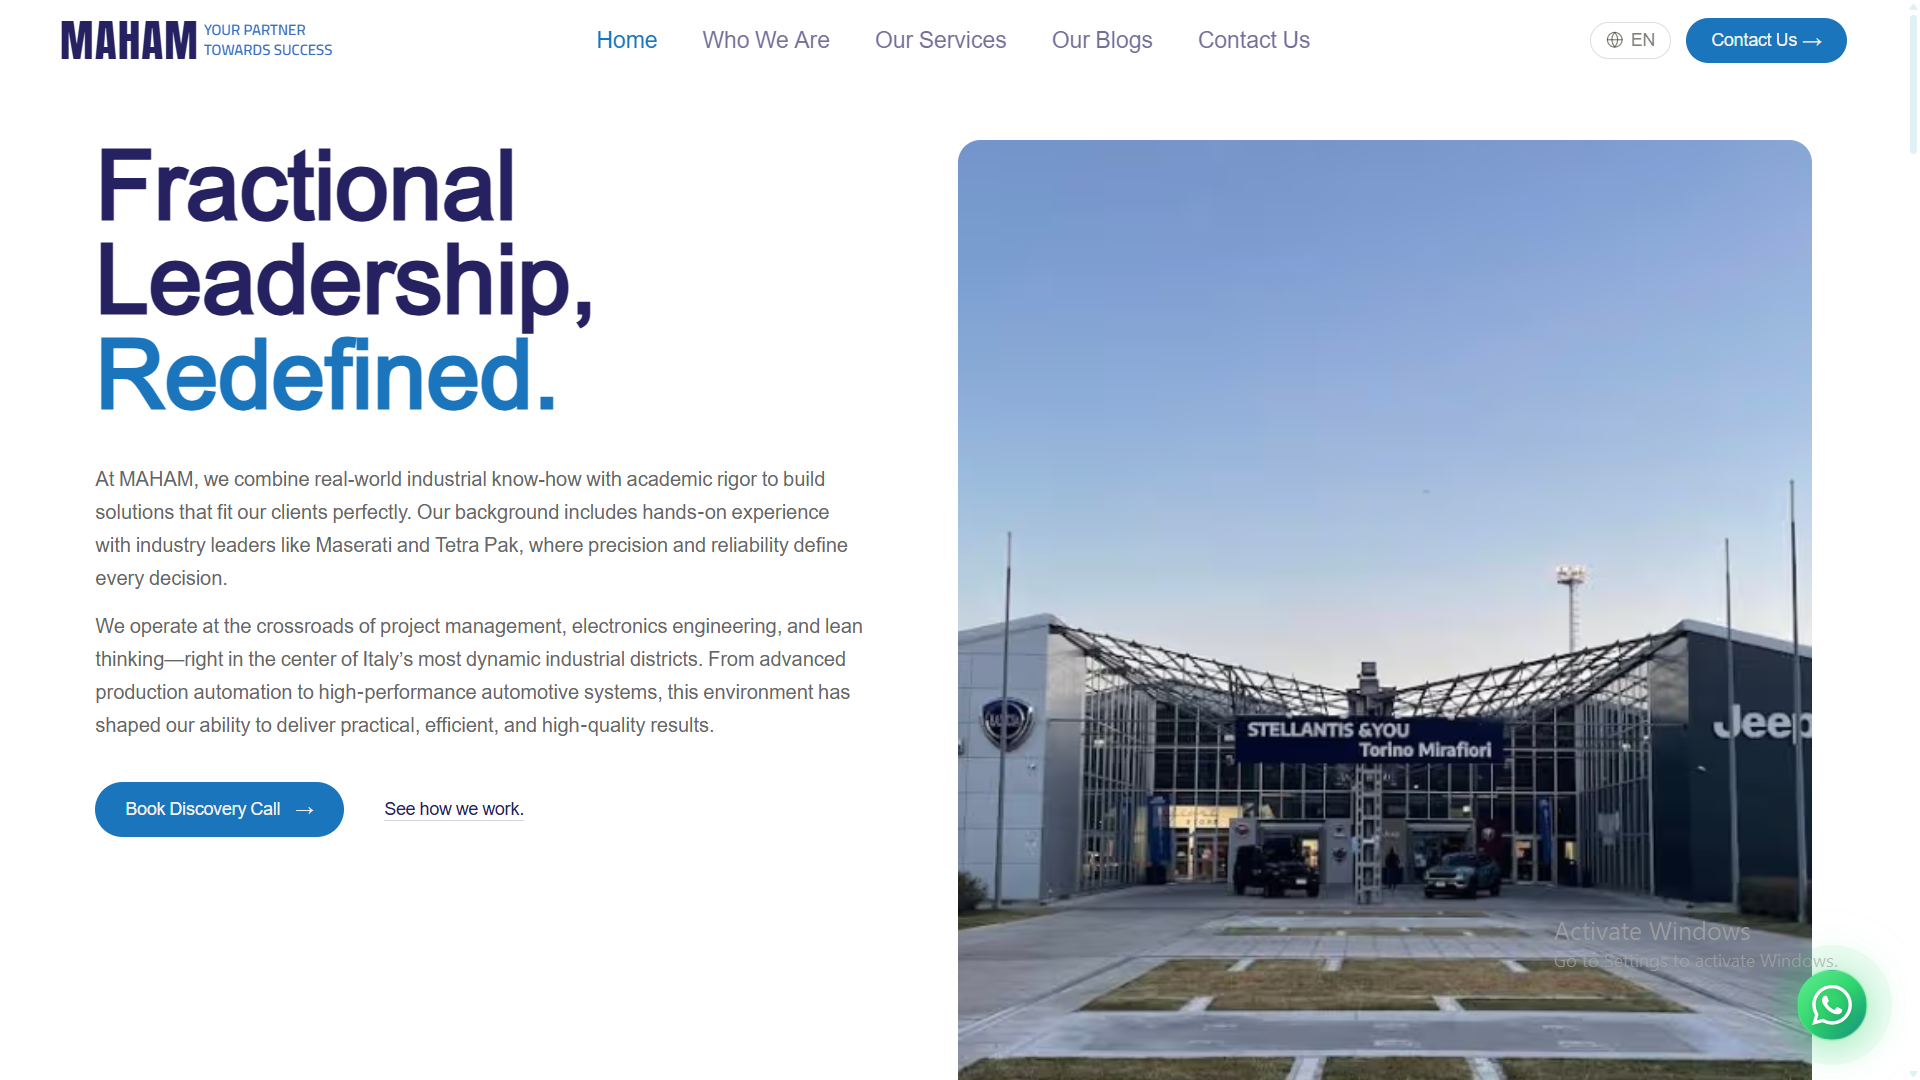
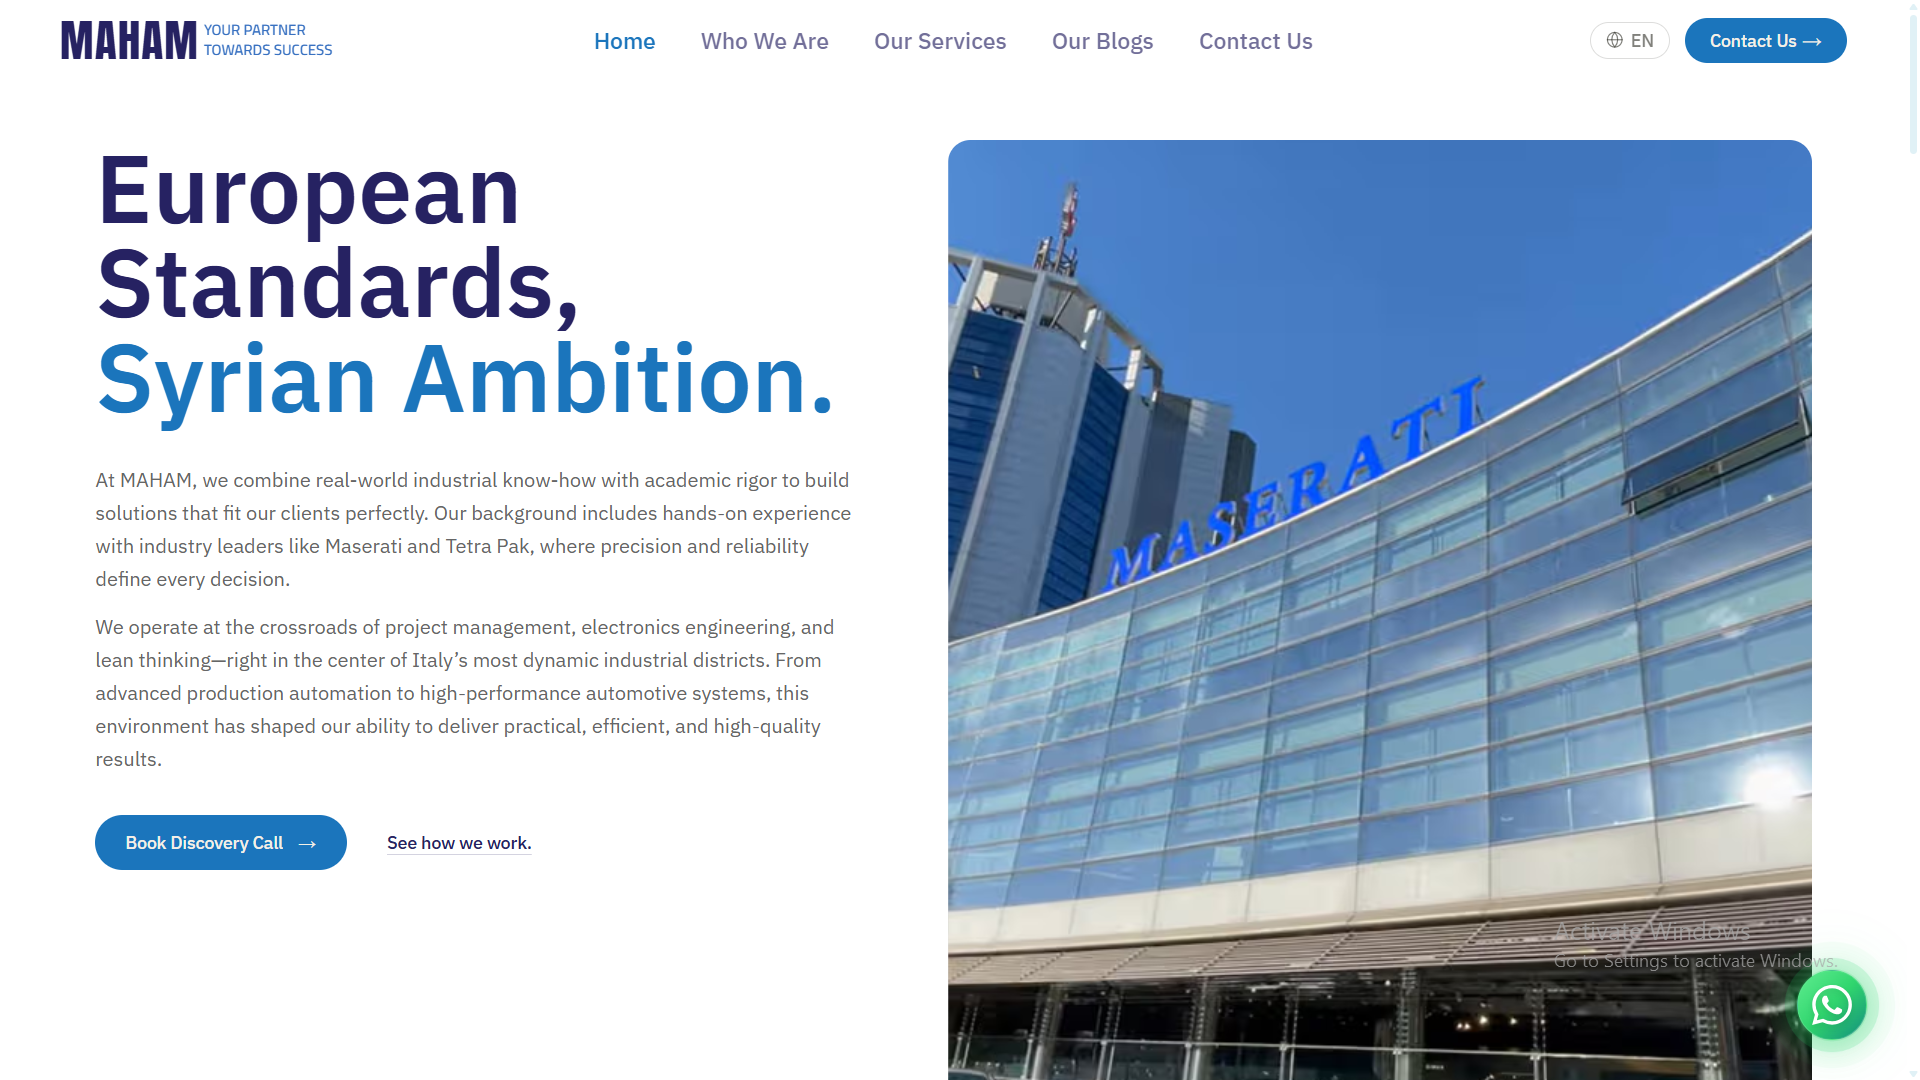
Add image upload to the admin content dashboard
- New /api/admin/upload route (auth-gated by middleware): accepts a
  multipart file, validates MIME type (PNG/JPEG/WebP/GIF/SVG/AVIF) and
  a 4MB cap, and stores it in a new "cms-images" Netlify Blobs store
  keyed by `${timestamp}-${uuid}.<ext>`.
- New public /api/images/[key] route serves a stored image back with a
  long-lived immutable cache header.
- New ImageDropField (drag-and-drop or click-to-browse, with preview
  and a remove button) wired into SectionEditor for any section-config
  field of the new "image" type; Projects' image field switches from a
  raw text path to this uploader.
- Update the Maham project screenshot.

Also gitignore deno.lock — a machine-local lockfile `netlify dev`
generates when it bootstraps the middleware as an Edge Function, not a
real dependency lock for this project.

diff --git a/src/app/admin/(dashboard)/[section]/ImageDropField.tsx b/src/app/admin/(dashboard)/[section]/ImageDropField.tsx
@@ -1,0 +1,93 @@
+"use client";
+
+import { useRef, useState, type DragEvent } from "react";
+
+const ACCEPTED_TYPES = "image/png,image/jpeg,image/webp,image/gif,image/svg+xml,image/avif";
+
+export function ImageDropField({
+  value,
+  onChange,
+}: {
+  value: string;
+  onChange: (url: string) => void;
+}) {
+  const inputRef = useRef<HTMLInputElement>(null);
+  const [dragging, setDragging] = useState(false);
+  const [uploading, setUploading] = useState(false);
+  const [error, setError] = useState<string | null>(null);
+
+  async function upload(file: File) {
+    setUploading(true);
+    setError(null);
+    try {
+      const formData = new FormData();
+      formData.append("file", file);
+      const res = await fetch("/api/admin/upload", { method: "POST", body: formData });
+      const body = await res.json();
+      if (!res.ok) throw new Error(body.error ?? "Upload failed.");
+      onChange(body.url as string);
+    } catch (e) {
+      setError(e instanceof Error ? e.message : "Upload failed.");
+    } finally {
+      setUploading(false);
+    }
+  }
+
+  function handleDrop(e: DragEvent<HTMLDivElement>) {
+    e.preventDefault();
+    setDragging(false);
+    const file = e.dataTransfer.files?.[0];
+    if (file) upload(file);
+  }
+
+  return (
+    <div>
+      <div
+        role="button"
+        tabIndex={0}
+        onClick={() => inputRef.current?.click()}
+        onKeyDown={(e) => {
+          if (e.key === "Enter" || e.key === " ") inputRef.current?.click();
+        }}
+        onDragOver={(e) => {
+          e.preventDefault();
+          setDragging(true);
+        }}
+        onDragLeave={() => setDragging(false)}
+        onDrop={handleDrop}
+        className={`flex cursor-pointer flex-col items-center gap-2 rounded-md border border-dashed px-3 py-4 text-center transition ${
+          dragging ? "border-white/50 bg-white/5" : "border-white/15 hover:border-white/30"
+        }`}
+      >
+        {value ? (
+          // eslint-disable-next-line @next/next/no-img-element
+          <img src={value} alt="" className="h-20 w-auto rounded object-cover" />
+        ) : null}
+        <span className="text-xs text-ink-secondary">
+          {uploading ? "Uploading…" : "Drag & drop an image, or click to browse"}
+        </span>
+        <input
+          ref={inputRef}
+          type="file"
+          accept={ACCEPTED_TYPES}
+          className="hidden"
+          onChange={(e) => {
+            const file = e.target.files?.[0];
+            if (file) upload(file);
+            e.target.value = "";
+          }}
+        />
+      </div>
+      {value && (
+        <button
+          type="button"
+          onClick={() => onChange("")}
+          className="mt-1 text-xs text-ink-secondary hover:text-red-400"
+        >
+          Remove image
+        </button>
+      )}
+      {error && <p className="mt-1 text-xs text-red-400">{error}</p>}
+    </div>
+  );
+}

diff --git a/src/app/admin/(dashboard)/[section]/SectionEditor.tsx b/src/app/admin/(dashboard)/[section]/SectionEditor.tsx
@@ -9,6 +9,7 @@ import {
   type RepeaterBlock,
 } from "@/lib/admin/section-config";
 import { Skeleton } from "@/components/ui/Skeleton";
+import { ImageDropField } from "./ImageDropField";
 
 type Fields = Record<string, string | string[]>;
 
@@ -165,7 +166,11 @@ export function SectionEditor({ section }: { section: SectionKey }) {
                         {block.fields.map((field) => (
                           <Skeleton
                             key={field.key}
-                            className={`h-9 ${field.type === "textarea" ? "sm:col-span-2 h-20" : ""}`}
+                            className={`h-9 ${
+                              field.type === "textarea" || field.type === "image"
+                                ? "sm:col-span-2 h-20"
+                                : ""
+                            }`}
                           />
                         ))}
                       </div>
@@ -291,12 +296,21 @@ export function SectionEditor({ section }: { section: SectionKey }) {
                         {block.fields.map((field) => (
                           <div
                             key={field.key}
-                            className={field.type === "textarea" ? "sm:col-span-2" : ""}
+                            className={
+                              field.type === "textarea" || field.type === "image"
+                                ? "sm:col-span-2"
+                                : ""
+                            }
                           >
                             <label className="mb-1 block text-xs text-ink-secondary">
                               {field.label}
                             </label>
-                            {field.type === "textarea" ? (
+                            {field.type === "image" ? (
+                              <ImageDropField
+                                value={(row[field.key] as string) ?? ""}
+                                onChange={(url) => updateRow(idx, field.key, url)}
+                              />
+                            ) : field.type === "textarea" ? (
                               <textarea
                                 rows={3}
                                 value={(row[field.key] as string) ?? ""}

diff --git a/src/app/api/admin/upload/route.ts b/src/app/api/admin/upload/route.ts
@@ -1,0 +1,48 @@
+import { randomUUID } from "crypto";
+import { NextResponse } from "next/server";
+import { saveImage } from "@/lib/content/images";
+
+const MAX_SIZE = 4 * 1024 * 1024;
+
+const EXTENSIONS: Record<string, string> = {
+  "image/png": "png",
+  "image/jpeg": "jpg",
+  "image/webp": "webp",
+  "image/gif": "gif",
+  "image/svg+xml": "svg",
+  "image/avif": "avif",
+};
+
+export async function POST(request: Request) {
+  const formData = await request.formData().catch(() => null);
+  const file = formData?.get("file");
+
+  if (!(file instanceof File)) {
+    return NextResponse.json({ error: "No file provided." }, { status: 400 });
+  }
+  const extension = EXTENSIONS[file.type];
+  if (!extension) {
+    return NextResponse.json(
+      { error: "Unsupported image type. Use PNG, JPEG, WebP, GIF, AVIF, or SVG." },
+      { status: 400 },
+    );
+  }
+  if (file.size > MAX_SIZE) {
+    return NextResponse.json({ error: "Image is too large (max 4MB)." }, { status: 400 });
+  }
+
+  const key = `${Date.now()}-${randomUUID()}.${extension}`;
+
+  try {
+    await saveImage(key, await file.arrayBuffer(), file.type);
+    return NextResponse.json({ url: `/api/images/${key}` });
+  } catch {
+    return NextResponse.json(
+      {
+        error:
+          "Storage unavailable. This works once the site is deployed on Netlify (Netlify Blobs), or locally via `netlify dev`.",
+      },
+      { status: 503 },
+    );
+  }
+}

diff --git a/src/lib/content/images.ts b/src/lib/content/images.ts
@@ -1,0 +1,40 @@
+import { getStore } from "@netlify/blobs";
+
+const STORE_NAME = "cms-images";
+
+/**
+ * Same runtime caveat as `store.ts`: Netlify Blobs auto-configures from the
+ * deploy environment, so this only works as a Netlify Function (deployed, or
+ * via `netlify dev`).
+ */
+function store() {
+  return getStore(STORE_NAME);
+}
+
+export type StoredImage = {
+  data: ArrayBuffer;
+  contentType: string;
+};
+
+export async function saveImage(
+  key: string,
+  data: ArrayBuffer,
+  contentType: string,
+): Promise<void> {
+  await store().set(key, data, { metadata: { contentType } });
+}
+
+/** Returns `null` when the key doesn't exist, or storage is unreachable. */
+export async function readImage(key: string): Promise<StoredImage | null> {
+  try {
+    const result = await store().getWithMetadata(key, { type: "arrayBuffer" });
+    if (!result) return null;
+    const contentType =
+      typeof result.metadata?.contentType === "string"
+        ? result.metadata.contentType
+        : "application/octet-stream";
+    return { data: result.data, contentType };
+  } catch {
+    return null;
+  }
+}

diff --git a/src/lib/admin/section-config.ts b/src/lib/admin/section-config.ts
@@ -3,7 +3,7 @@ import type { SectionKey } from "@/lib/content/schema";
 export type RowField = {
   key: string;
   label: string;
-  type: "text" | "textarea" | "checkbox";
+  type: "text" | "textarea" | "checkbox" | "image";
 };
 
 export type Row = Record<string, string | boolean>;
@@ -100,7 +100,7 @@ export const SECTION_CONFIGS: Record<SectionKey, SectionConfig> = {
           { key: "tech", label: "Tech (comma-separated)", type: "text" },
           { key: "linkLabel", label: "Link label", type: "text" },
           { key: "linkHref", label: "Link URL", type: "text" },
-          { key: "image", label: "Image path (under /public)", type: "text" },
+          { key: "image", label: "Image", type: "image" },
           { key: "country", label: "Country", type: "text" },
         ],
         emptyRow: {

diff --git a/src/app/api/images/[key]/route.ts b/src/app/api/images/[key]/route.ts
@@ -1,0 +1,20 @@
+import { NextResponse } from "next/server";
+import { readImage } from "@/lib/content/images";
+
+export async function GET(
+  _request: Request,
+  { params }: { params: Promise<{ key: string }> },
+) {
+  const { key } = await params;
+  const image = await readImage(key);
+  if (!image) {
+    return NextResponse.json({ error: "Not found." }, { status: 404 });
+  }
+
+  return new NextResponse(image.data, {
+    headers: {
+      "Content-Type": image.contentType,
+      "Cache-Control": "public, max-age=31536000, immutable",
+    },
+  });
+}
